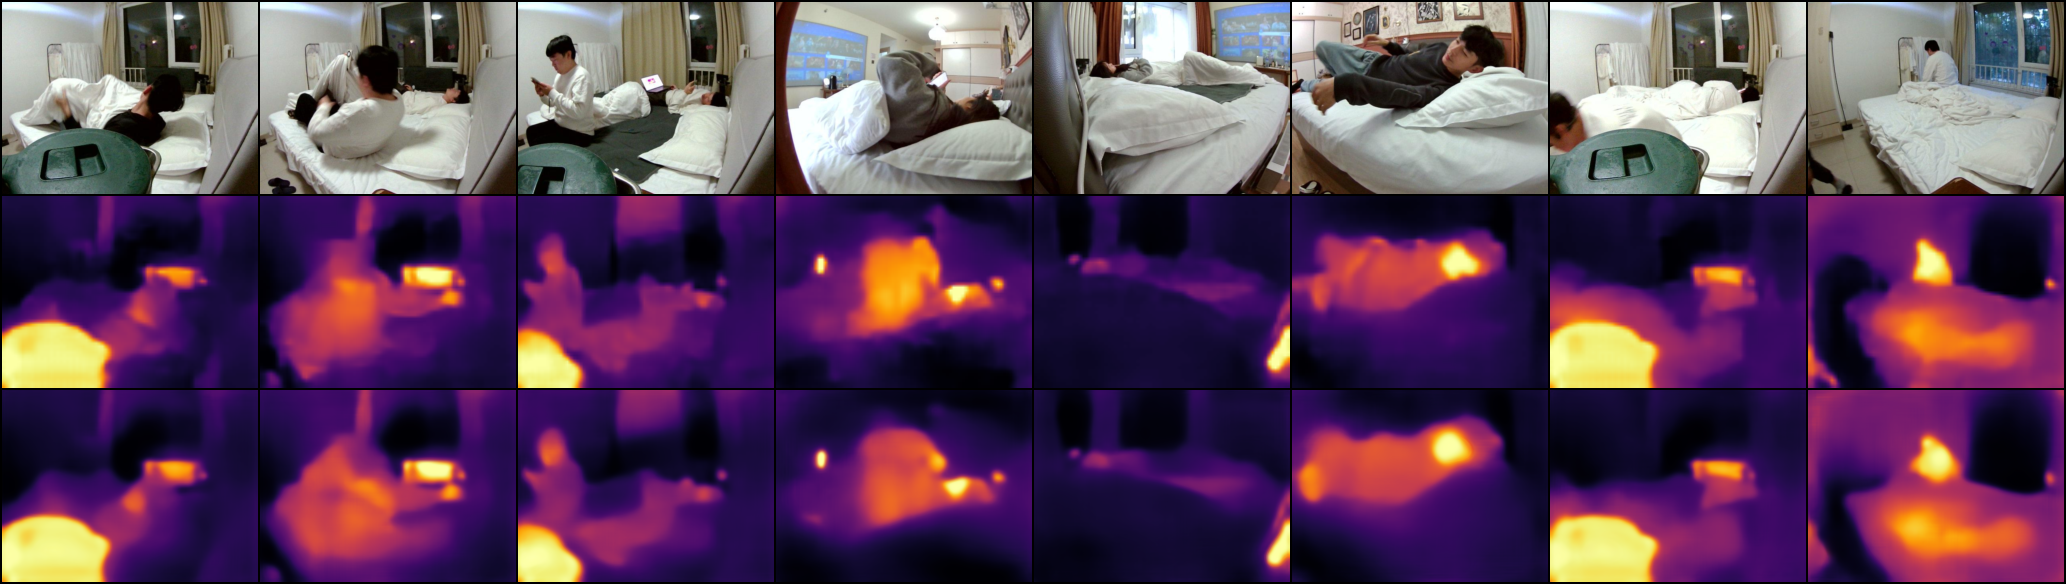
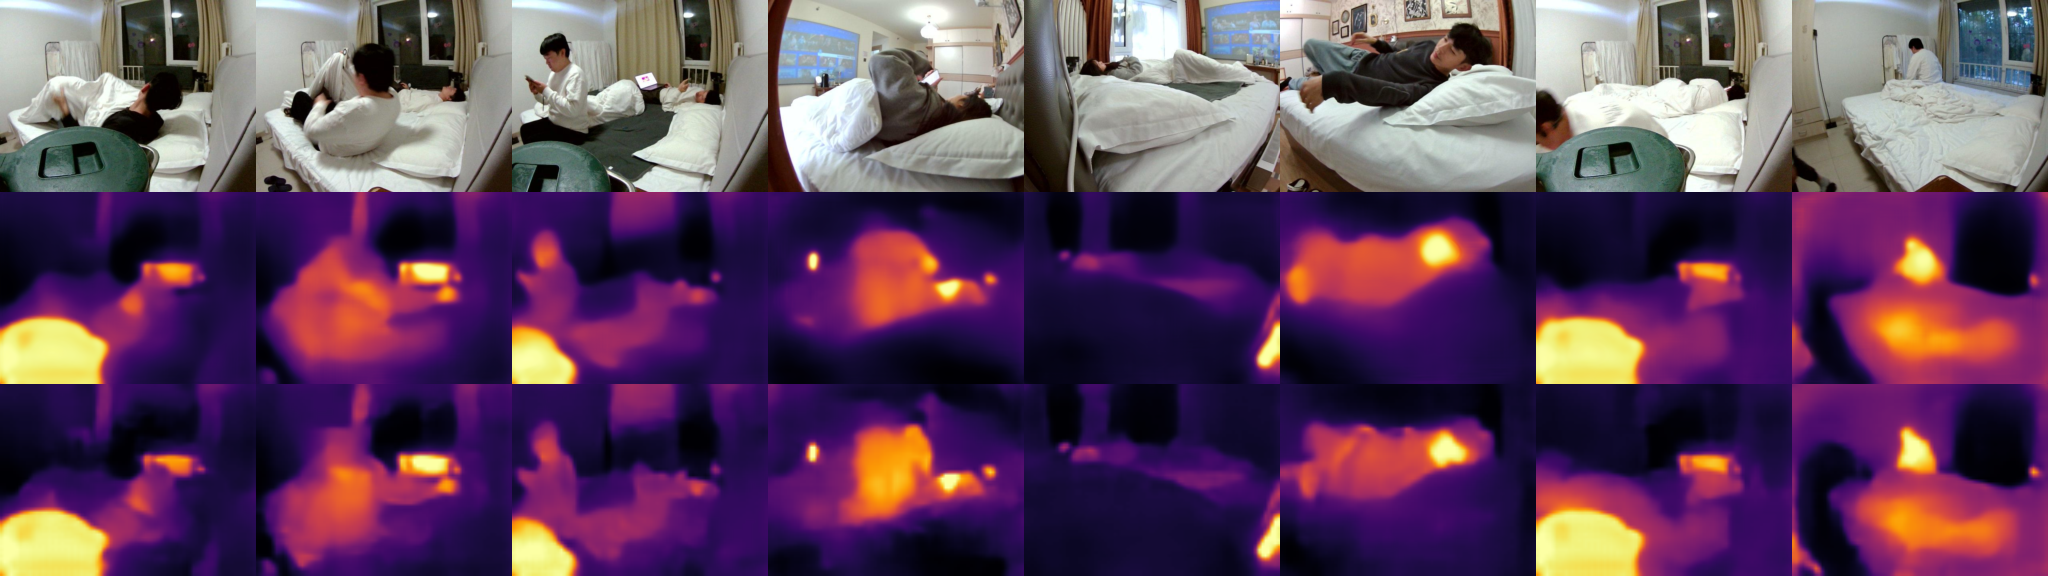
RGB2T: consistent thermal colormap examples and LSGAN Pix2Pix option

diff --git a/RGB2T/make_samples.py b/RGB2T/make_samples.py
@@ -1,0 +1,124 @@
+#!/usr/bin/env python3
+"""Generate consistent RGB -> thermal visualization grids."""
+
+from __future__ import annotations
+
+import argparse
+from pathlib import Path
+
+import numpy as np
+import torch
+import torch.nn.functional as F
+from PIL import Image
+from torch.utils.data import DataLoader
+from torchvision.transforms import functional as TF
+from torchvision.utils import save_image
+
+from datasets import RGB2TInferenceDataset, RGB2TRelDataset, read_thermal
+from unet import UNet
+
+
+def colormap_celsius(field: np.ndarray) -> np.ndarray:
+    import matplotlib
+
+    matplotlib.use("Agg")
+    import matplotlib.cm as cm
+
+    vmin, vmax = 15.0, 35.0
+    norm = (np.clip(field, vmin, vmax) - vmin) / (vmax - vmin)
+    return (cm.inferno(norm)[..., :3] * 255).round().astype(np.uint8)
+
+
+def rgb_tensor_to_numpy(x: torch.Tensor) -> np.ndarray:
+    x = (x.clamp(-1, 1) + 1) / 2
+    x = (x * 255).round().clamp(0, 255).to(torch.uint8)
+    return x.permute(0, 2, 3, 1).cpu().numpy()
+
+
+def upscale_image(image: np.ndarray) -> np.ndarray:
+    return np.asarray(Image.fromarray(image).resize((256, 192), Image.NEAREST))
+
+
+def thermal_tensor_to_celsius(x: torch.Tensor, pixel_mean: np.ndarray, pixel_std: np.ndarray) -> np.ndarray:
+    if x.dim() == 3:
+        x = x.unsqueeze(0)
+    x = F.interpolate(x, size=(62, 80), mode="area")[0, 0].cpu().numpy()
+    return x * pixel_std + pixel_mean
+
+
+def main() -> None:
+    parser = argparse.ArgumentParser(description=__doc__)
+    parser.add_argument("--target", choices=["thermal", "pseudo", "relative"], required=True)
+    parser.add_argument("--checkpoint", type=Path, required=True)
+    parser.add_argument("--output", type=Path, required=True)
+    parser.add_argument("--device", default="cuda:0")
+    parser.add_argument("--n", type=int, default=8)
+    args = parser.parse_args()
+
+    device = torch.device(args.device)
+    stats = np.load(Path(__file__).resolve().parent / "data" / "thermal_stats.npz")
+    pixel_mean = stats["pixel_mean"].astype(np.float32)
+    pixel_std = stats["pixel_std"].astype(np.float32)
+
+    if args.target == "relative":
+        ds = RGB2TRelDataset(Path(__file__).resolve().parent / "data" / "test.csv", training=False)
+        model = UNet(in_channels=4, out_channels=1, base=64, activation="none").to(device)
+        state_key = "generator" if "generator" in torch.load(args.checkpoint, map_location="cpu") else "model"
+        rows = ds.rows
+    else:
+        ds = RGB2TInferenceDataset(Path(__file__).resolve().parent / "data" / "test.csv", target=args.target, training=False)
+        out_channels = 1 if args.target == "thermal" else 3
+        activation = "none" if args.target == "thermal" else "tanh"
+        model = UNet(in_channels=3, out_channels=out_channels, base=64, activation=activation).to(device)
+        state_key = "generator" if "generator" in torch.load(args.checkpoint, map_location="cpu") else "model"
+        rows = ds.rows
+
+    ckpt = torch.load(args.checkpoint, map_location="cpu")
+    model.load_state_dict(ckpt[state_key])
+    model.eval()
+
+    inputs = []
+    for idx in range(args.n):
+        if args.target == "relative":
+            cond, _ = ds[idx]
+            cond = cond.to(device)
+            rgb = cond[:3]
+            with torch.inference_mode():
+                pred = model(cond.unsqueeze(0))[0]
+            pred_c = thermal_tensor_to_celsius(pred, pixel_mean, pixel_std)
+            gt_c = read_thermal(Path(rows[idx]["thermal_path"]))
+            rgb_img = rgb_tensor_to_numpy(rgb.unsqueeze(0))[0]
+            pred_img = upscale_image(colormap_celsius(pred_c))
+            gt_img = upscale_image(colormap_celsius(gt_c))
+        elif args.target == "thermal":
+            rgb, _, _ = ds[idx]
+            rgb = rgb.to(device)
+            with torch.inference_mode():
+                pred = model(rgb.unsqueeze(0))[0]
+            pred_c = thermal_tensor_to_celsius(pred, pixel_mean, pixel_std)
+            gt_c = read_thermal(Path(rows[idx]["thermal_path"]))
+            rgb_img = rgb_tensor_to_numpy(rgb.unsqueeze(0))[0]
+            pred_img = upscale_image(colormap_celsius(pred_c))
+            gt_img = upscale_image(colormap_celsius(gt_c))
+        else:
+            rgb, _, _ = ds[idx]
+            rgb = rgb.to(device)
+            with torch.inference_mode():
+                pred = model(rgb.unsqueeze(0))[0]
+            ir = Image.open(rows[idx]["ir_path"]).convert("RGB").resize((256, 192), Image.BILINEAR)
+            gt_img = np.asarray(ir)
+            rgb_img = rgb_tensor_to_numpy(rgb.unsqueeze(0))[0]
+            pred_img = rgb_tensor_to_numpy(pred.unsqueeze(0))[0]
+
+        inputs.append((rgb_img, pred_img, gt_img))
+
+    grid_rgb = np.concatenate([x[0] for x in inputs], axis=1)
+    grid_pred = np.concatenate([x[1] for x in inputs], axis=1)
+    grid_gt = np.concatenate([x[2] for x in inputs], axis=1)
+    grid = np.concatenate([grid_rgb, grid_pred, grid_gt], axis=0)
+    Image.fromarray(grid).save(args.output)
+    print("saved", args.output)
+
+
+if __name__ == "__main__":
+    main()

diff --git a/RGB2T/train_pix2pix.py b/RGB2T/train_pix2pix.py
@@ -27,6 +27,7 @@ def parse_args() -> argparse.Namespace:
     parser.add_argument("--workers", type=int, default=8)
     parser.add_argument("--lr", type=float, default=2e-4)
     parser.add_argument("--lambda-l1", type=float, default=100.0)
+    parser.add_argument("--gan-loss", choices=["bce", "lsgan"], default="bce")
     parser.add_argument("--device", default="cuda:0")
     parser.add_argument("--sample-every", type=int, default=5)
     parser.add_argument("--save-every", type=int, default=25)
@@ -63,7 +64,7 @@ def main() -> None:
         pin_memory=True,
     )
 
-    criterion_gan = nn.BCEWithLogitsLoss()
+    criterion_gan = nn.BCEWithLogitsLoss() if args.gan_loss == "bce" else nn.MSELoss()
     criterion_l1 = nn.L1Loss()
     optimizer_g = torch.optim.Adam(generator.parameters(), lr=args.lr, betas=(0.5, 0.999))
     optimizer_d = torch.optim.Adam(discriminator.parameters(), lr=args.lr, betas=(0.5, 0.999))
@@ -81,10 +82,16 @@ def main() -> None:
             fake = generator(rgb)
             pred_real = discriminator(torch.cat([rgb, target], 1))
             pred_fake = discriminator(torch.cat([rgb, fake.detach()], 1))
-            loss_d = 0.5 * (
-                criterion_gan(pred_real, torch.ones_like(pred_real))
-                + criterion_gan(pred_fake, torch.zeros_like(pred_fake))
-            )
+            if args.gan_loss == "bce":
+                loss_d = 0.5 * (
+                    criterion_gan(pred_real, torch.ones_like(pred_real))
+                    + criterion_gan(pred_fake, torch.zeros_like(pred_fake))
+                )
+            else:
+                loss_d = 0.5 * (
+                    criterion_gan(pred_real, torch.ones_like(pred_real))
+                    + criterion_gan(pred_fake, torch.zeros_like(pred_fake))
+                )
             optimizer_d.zero_grad(set_to_none=True)
             loss_d.backward()
             optimizer_d.step()
